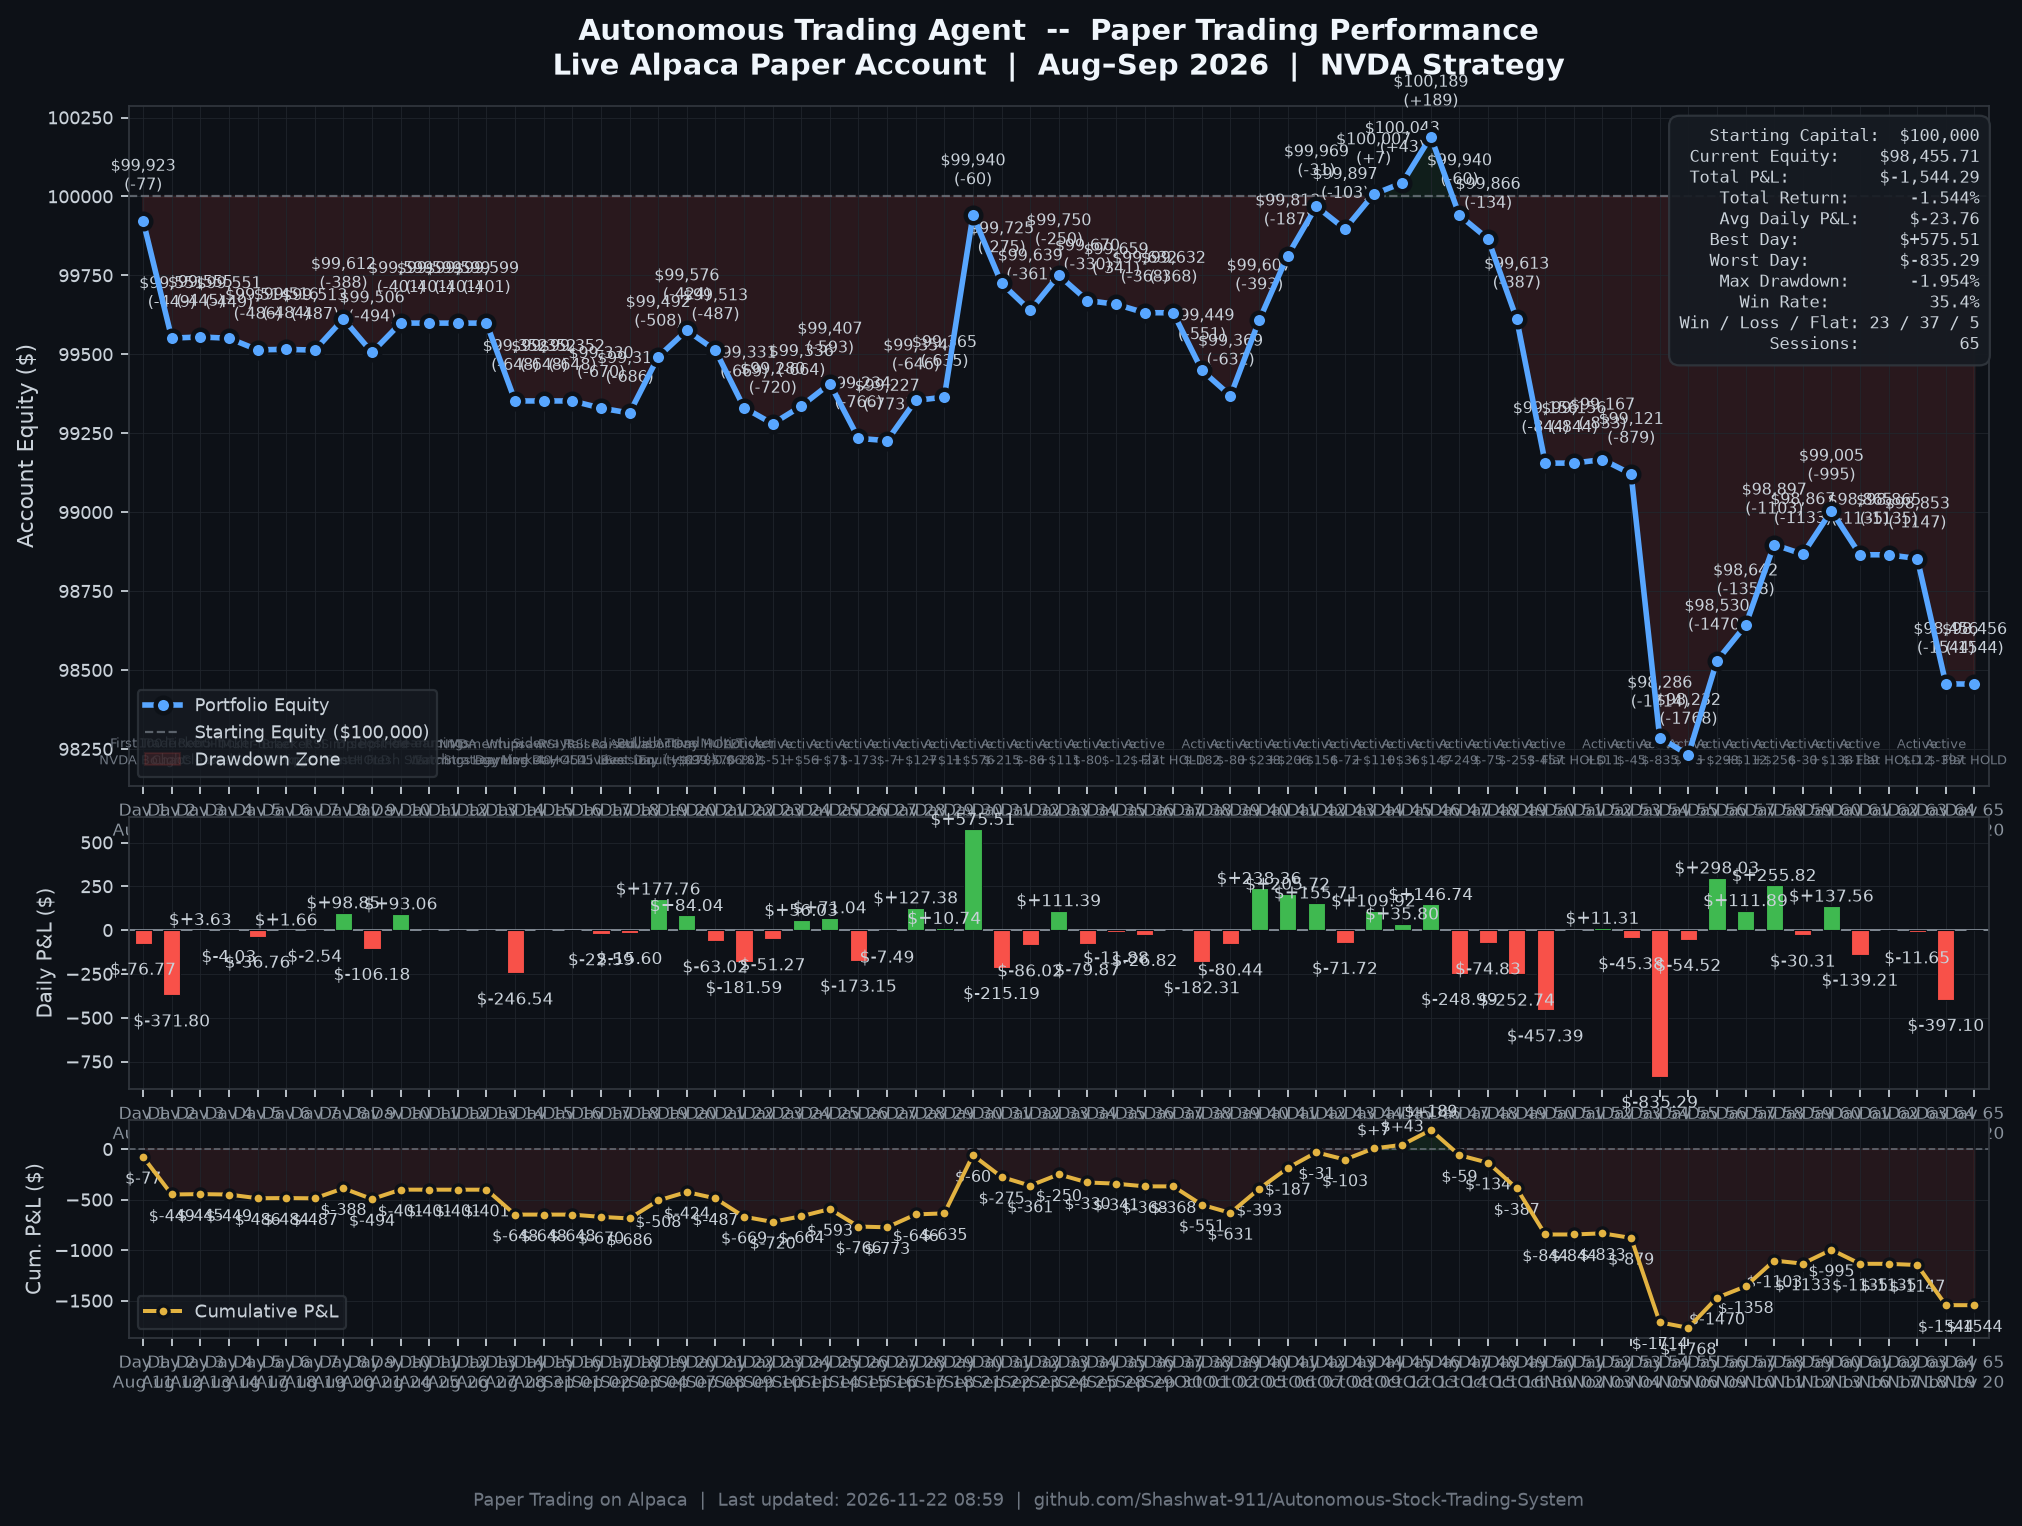
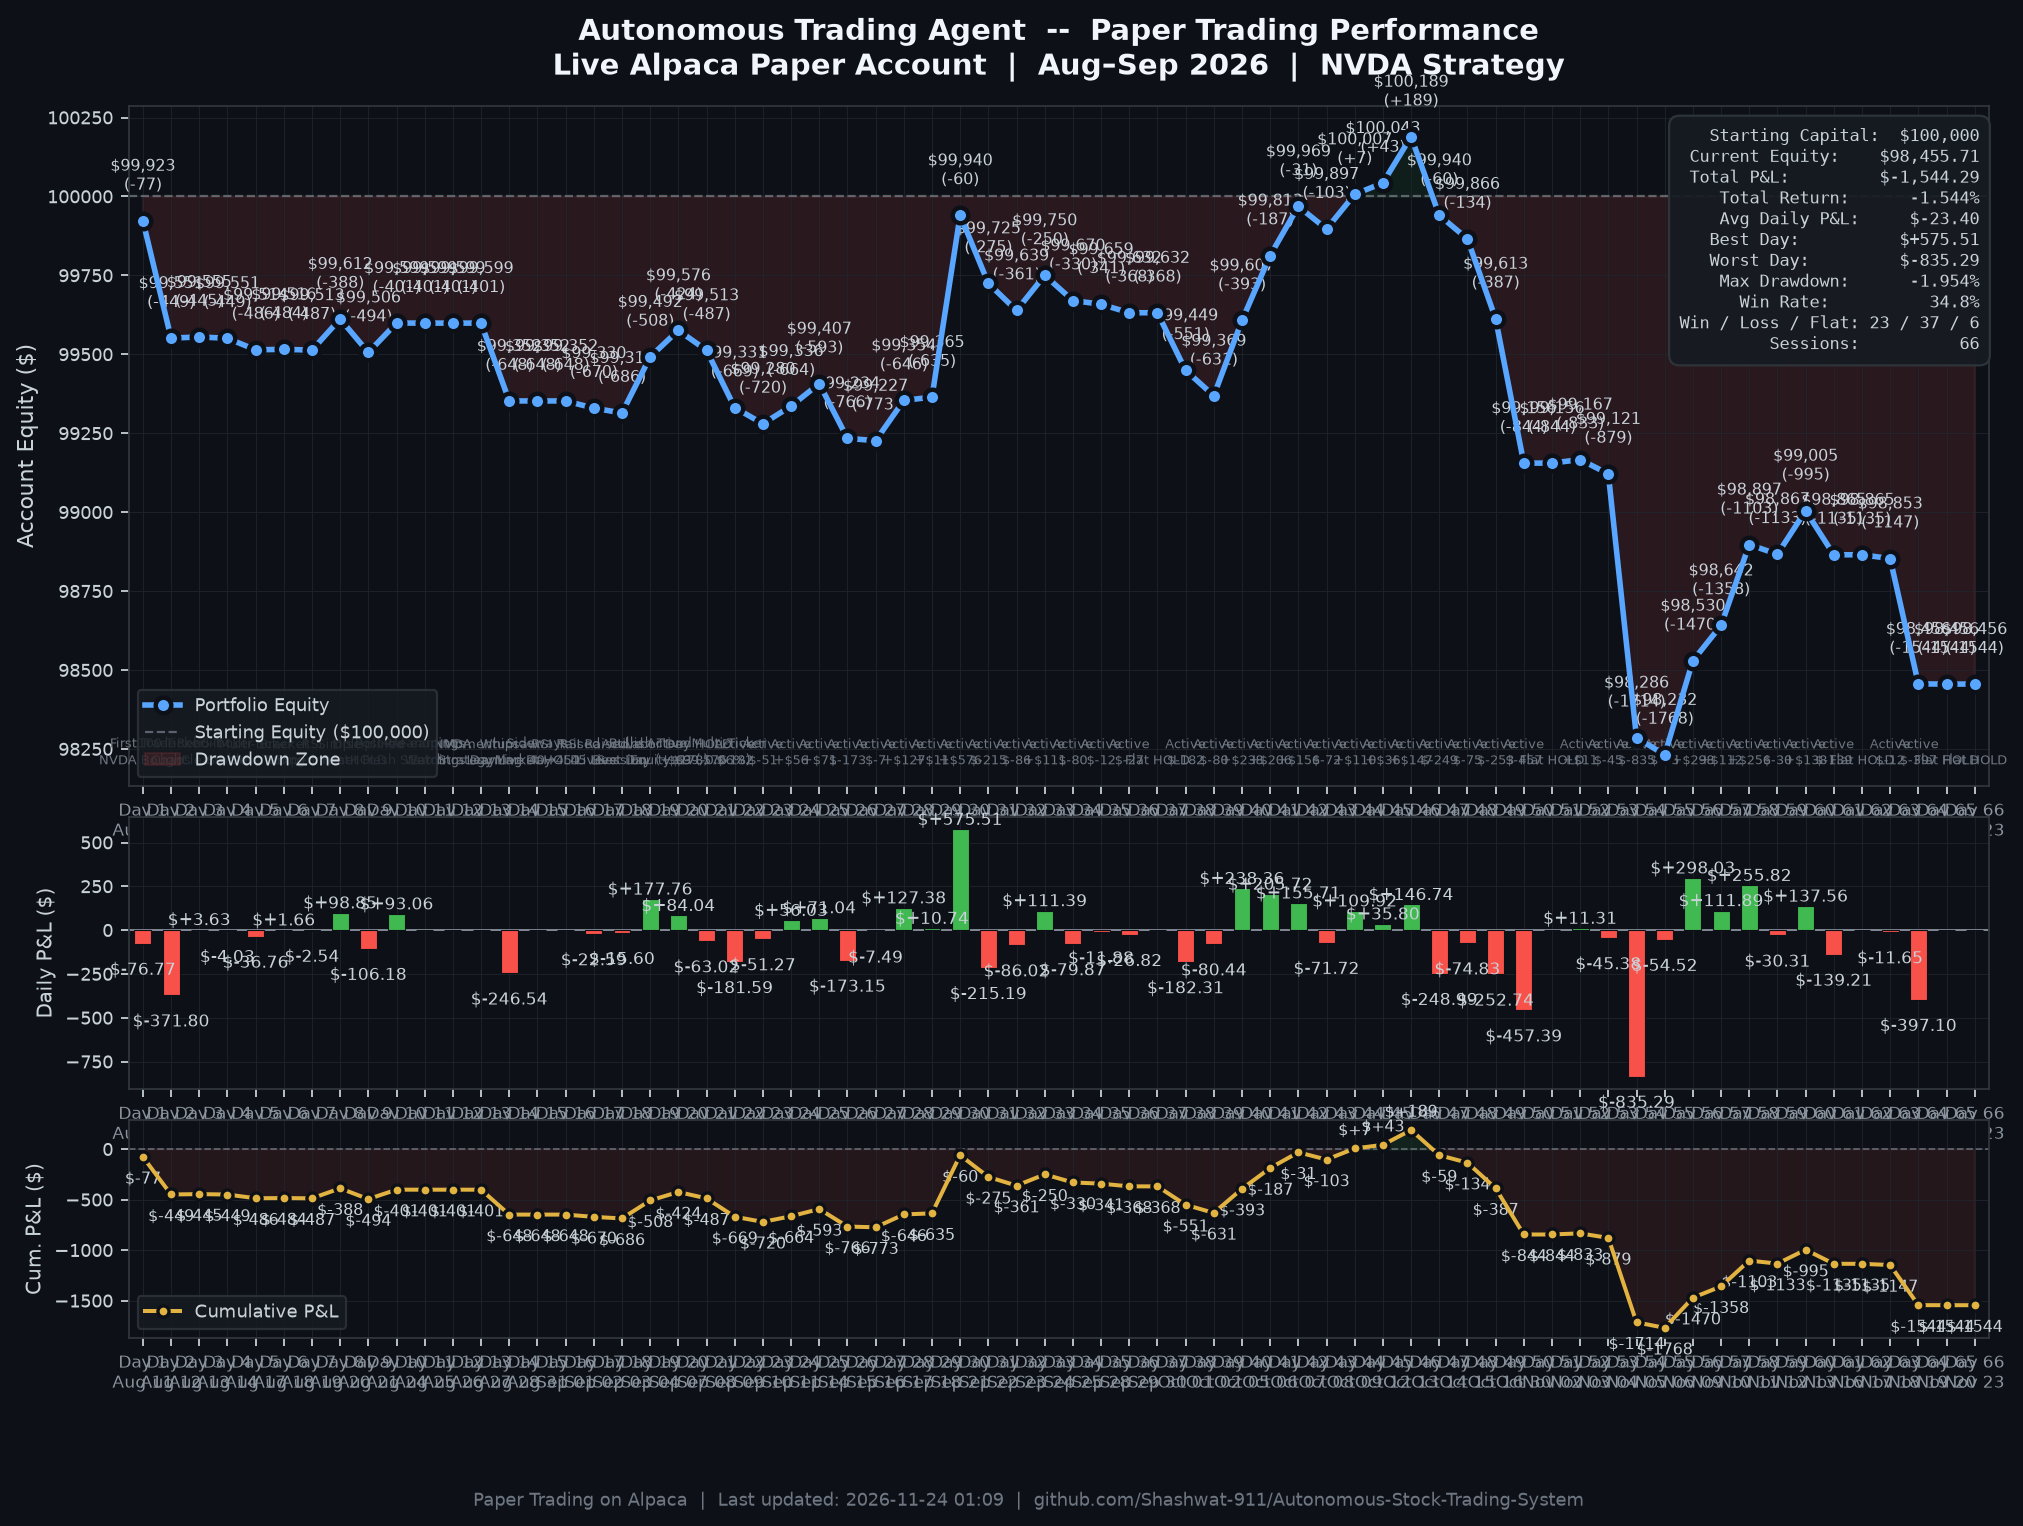
auto(session): 2026-11-23 | equity=$98,456 | return=-1.544%

diff --git a/README.md b/README.md
@@ -47,7 +47,7 @@ The automated trading bot is deployed in the cloud on Render with continuous mon
 
 > **Paper Trading on Alpaca** | Started: Aug 11, 2026 | Initial Capital: $100,000.00 | Universe: NVDA, TSLA, META, MSFT, AAPL (5-Stock High-Momentum Universe)
 
-![Daily P&L Chart](outputs/daily_pnl_chart.png?v=20261120)
+![Daily P&L Chart](outputs/daily_pnl_chart.png?v=20261123)
 
 *Chart auto-generated from live Alpaca Portfolio History API and verified session telemetry via [`scripts/generate_pnl_chart.py`](scripts/generate_pnl_chart.py).*
 
@@ -120,8 +120,9 @@ The automated trading bot is deployed in the cloud on Render with continuous mon
 | **Day 63** | Nov 18 (Wed) | $98,853.44 | -$11.65 | -$1146.56 | -1.147% | Active Session (-$11.65) |
 | **Day 64** | Nov 19 (Thu) | $98,456.34 | -$397.10 | -$1543.66 | -1.544% | Loss Session (-$397.10) |
 | **Day 65** | Nov 20 (Fri) | $98,455.71 | -$0.63 | -$1544.29 | -1.544% | Flat Session - Disciplined HOLD |
+| **Day 66** | Nov 23 (Mon) | $98,455.71 | $0.00 | -$1544.29 | -1.544% | Flat Session - Disciplined HOLD |
 
-> **Current Equity**: $98,455.71 | **Total P&L**: $-1,544.29 | **Best Day**: $+575.51 | **Win Rate**: 35.4% (23W / 37L / 5 Flat) | **Max Drawdown**: -1.768% | **Sessions**: 65
+> **Current Equity**: $98,455.71 | **Total P&L**: $-1,544.29 | **Best Day**: $+575.51 | **Win Rate**: 34.8% (23W / 37L / 6 Flat) | **Max Drawdown**: -1.768% | **Sessions**: 66
 ---
 
 ## System Architecture
